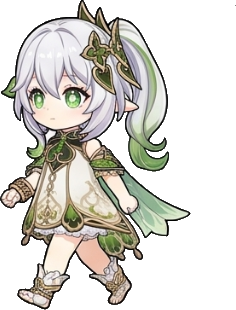
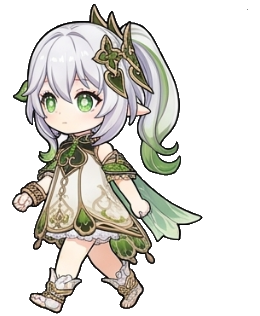
fix: eliminate growing and shrinking by standardizing sprite canvases to 260x316 and locking height with h-20 w-auto

Changed region(s): [[0.0, 0.0, 0.8008, 1.0]]

diff --git a/src/components/athena_widget.rs b/src/components/athena_widget.rs
@@ -3,21 +3,21 @@ use gloo_timers::callback::Interval;
 use wasm_bindgen::JsCast;
 
 const SPRITES_WALK: [&str; 4] = [
-    "assets/chibi/01_movement/nahida_walk_left_01.png?v=4",
-    "assets/chibi/01_movement/nahida_walk_left_02.png?v=4",
-    "assets/chibi/01_movement/nahida_walk_left_03.png?v=4",
-    "assets/chibi/01_movement/nahida_walk_left_02.png?v=4",
+    "assets/chibi/01_movement/nahida_walk_left_01.png?v=5",
+    "assets/chibi/01_movement/nahida_walk_left_02.png?v=5",
+    "assets/chibi/01_movement/nahida_walk_left_03.png?v=5",
+    "assets/chibi/01_movement/nahida_walk_left_02.png?v=5",
 ];
 
-const SPRITE_IMPACT: &str = "assets/chibi/02_physics_events/nahida_impact_01.png?v=4";
-const SPRITE_RECOVER: &str = "assets/chibi/02_physics_events/nahida_recover_01.png?v=4";
+const SPRITE_IMPACT: &str = "assets/chibi/02_physics_events/nahida_impact_01.png?v=5";
+const SPRITE_RECOVER: &str = "assets/chibi/02_physics_events/nahida_recover_01.png?v=5";
 
-const SPRITE_THINK: &str = "assets/chibi/03_chat_interaction/nahida_think_pose.png?v=4";
-const SPRITE_PONDER: &str = "assets/chibi/03_chat_interaction/nahida_ponder_pose.png?v=4";
-const SPRITE_ASK_INVITE: &str = "assets/chibi/03_chat_interaction/nahida_ask_invite.png?v=4";
-const SPRITE_LOADING: &str = "assets/chibi/03_chat_interaction/nahida_loading_01.png?v=4";
-const SPRITE_EXCITED: &str = "assets/chibi/03_chat_interaction/nahida_excited_01.png?v=4";
-const SPRITE_ANSWERING: &str = "assets/chibi/03_chat_interaction/nahida_answering_01.png?v=4";
+const SPRITE_THINK: &str = "assets/chibi/03_chat_interaction/nahida_think_pose.png?v=5";
+const SPRITE_PONDER: &str = "assets/chibi/03_chat_interaction/nahida_ponder_pose.png?v=5";
+const SPRITE_ASK_INVITE: &str = "assets/chibi/03_chat_interaction/nahida_ask_invite.png?v=5";
+const SPRITE_LOADING: &str = "assets/chibi/03_chat_interaction/nahida_loading_01.png?v=5";
+const SPRITE_EXCITED: &str = "assets/chibi/03_chat_interaction/nahida_excited_01.png?v=5";
+const SPRITE_ANSWERING: &str = "assets/chibi/03_chat_interaction/nahida_answering_01.png?v=5";
 
 #[derive(Clone, Copy, Debug, PartialEq)]
 enum CompanionState {
@@ -374,11 +374,11 @@ pub fn AthenaWidget() -> impl IntoView {
                     ></span>
                 </div>
 
-                // Animated Nahida Sprite Frame (100% visible on bottom, no CSS transition lag)
+                // Animated Nahida Sprite Frame (100% visible on bottom, fixed height to prevent growing/shrinking)
                 <img
                     src=move || current_sprite.get()
                     alt="Nahida Chibi Companion"
-                    class="w-16 h-auto drop-shadow-[0_8px_16px_rgba(0,0,0,0.6)] select-none pointer-events-none"
+                    class="h-20 w-auto drop-shadow-[0_8px_16px_rgba(0,0,0,0.6)] select-none pointer-events-none"
                     style=move || format!(
                         "transform: scale({}) scaleX({}); transform-origin: bottom center;",
                         scale.get(),
